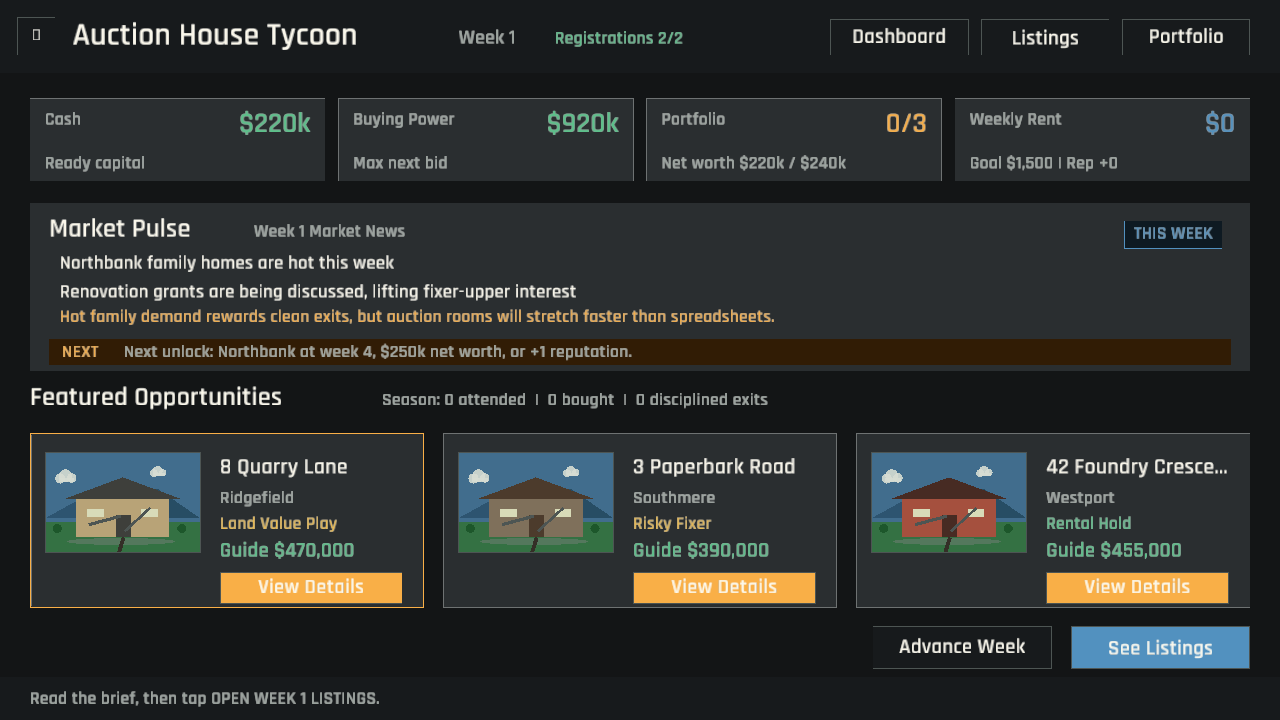
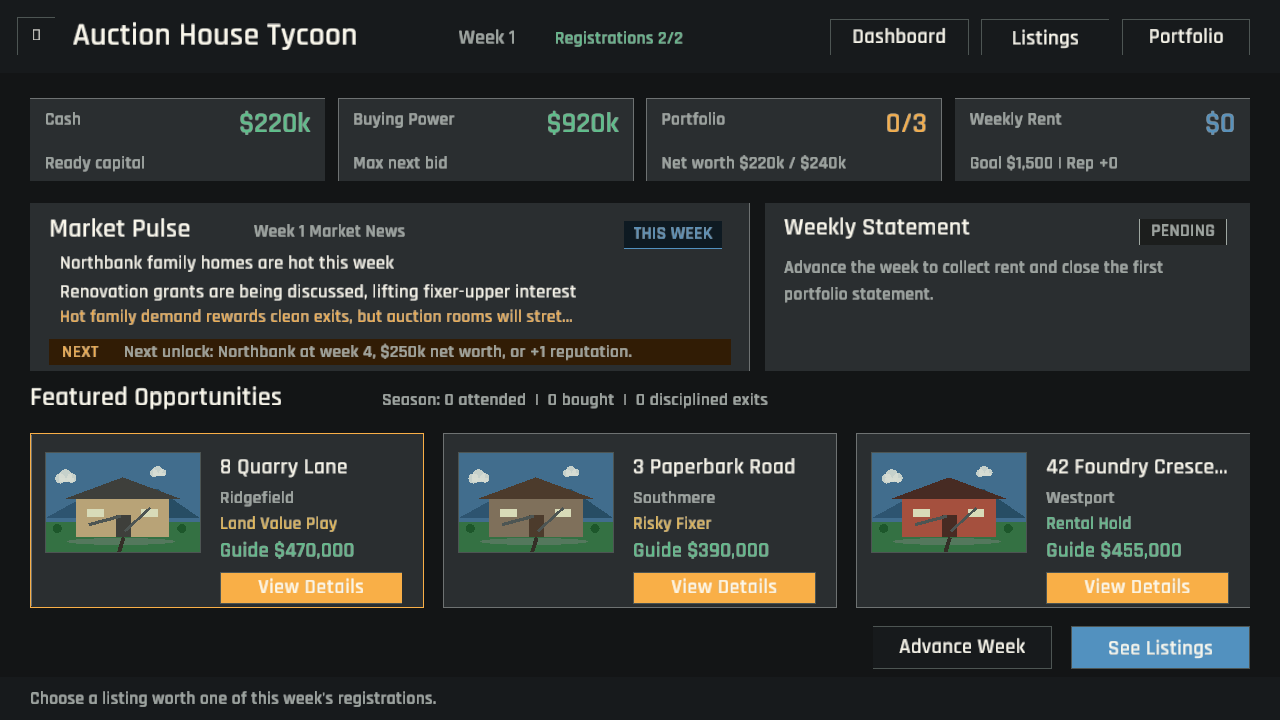
Every Friday closes the books before Saturday raises a paddle (weekly statement)
Weekly cash movement previously disappeared into a long status sentence. The dashboard now keeps a save-compatible statement that separates rent, management, loan interest, property costs, net movement, and any debt-funded shortfall beside the market pulse. Dense screens prewarm the shared Rajdhani glyph atlas at the UI's real sizes, preventing late atlas growth from corrupting earlier text batches.

Changed region(s): [[0.4375, 0.275, 0.9688, 0.5194], [0.0312, 0.9472, 0.3438, 0.9778]]

diff --git a/src/screens/dashboard.rs b/src/screens/dashboard.rs
@@ -22,7 +22,14 @@ impl App {
         }
 
         self.draw_dashboard_stats(margin, top, width, current_net_worth);
-        self.draw_market_pulse(margin, top + 98.0, width, current_net_worth);
+        let pulse_gap = 14.0;
+        let pulse_width = width * 0.59;
+        self.draw_market_pulse(margin, top + 98.0, pulse_width, current_net_worth);
+        self.draw_weekly_statement(
+            margin + pulse_width + pulse_gap,
+            top + 98.0,
+            width - pulse_width - pulse_gap,
+        );
 
         label(
             "Featured Opportunities",
@@ -282,13 +289,80 @@ impl App {
             Color::new(ACCENT.r * 0.20, ACCENT.g * 0.16, ACCENT.b * 0.08, 1.0),
         );
         label("NEXT", unlock.x + 12.0, unlock.y + 17.0, 14, ACCENT);
-        label(
+        label_fit(
             next_unlock_note(self.week, net_worth_value, self.player.reputation),
             unlock.x + 70.0,
             unlock.y + 17.0,
+            unlock.w - 82.0,
             14,
             TEXT_DIM,
         );
+    }
+
+    fn draw_weekly_statement(&self, x: f32, y: f32, width: f32) {
+        let rect = Rect::new(x, y, width, 158.0);
+        soft_panel(rect);
+        label(
+            "Weekly Statement",
+            rect.x + 18.0,
+            rect.y + 30.0,
+            23,
+            TEXT_BRIGHT,
+        );
+        let Some(pressure) = &self.last_weekly_pressure else {
+            draw_badge(
+                "PENDING",
+                Rect::new(rect.x + rect.w - 104.0, rect.y + 15.0, 82.0, 25.0),
+                TEXT_DIM,
+            );
+            draw_wrapped_text(
+                "Advance the week to collect rent and close the first portfolio statement.",
+                rect.x + 18.0,
+                rect.y + 66.0,
+                rect.w - 36.0,
+                17,
+                TEXT_DIM,
+            );
+            return;
+        };
+
+        let net = pressure.rental_income - pressure.total;
+        draw_badge(
+            if net >= 0 { "CASHFLOW +" } else { "CASHFLOW -" },
+            Rect::new(rect.x + rect.w - 122.0, rect.y + 15.0, 100.0, 25.0),
+            if net >= 0 { POSITIVE } else { WARNING },
+        );
+        let rows = [
+            ("Rent collected", pressure.rental_income),
+            ("Management", -pressure.rental_operating_cost),
+            ("Loan interest", -pressure.debt_interest),
+            ("Property costs", -pressure.holding_cost),
+            ("Net movement", net),
+        ];
+        for (index, (title, amount)) in rows.iter().enumerate() {
+            let row_y = rect.y + 56.0 + index as f32 * 20.0;
+            label(title, rect.x + 18.0, row_y, 14, TEXT_DIM);
+            label(
+                &signed_money(*amount),
+                rect.x + rect.w - 112.0,
+                row_y,
+                14,
+                if *amount >= 0 { POSITIVE } else { WARNING },
+            );
+        }
+        if pressure.shortfall_added_to_debt > 0 {
+            label_fit(
+                &format!(
+                    "Shortfall {} added to debt",
+                    format_money(pressure.shortfall_added_to_debt)
+                ),
+                rect.x + 18.0,
+                rect.y + rect.h - 8.0,
+                rect.w - 36.0,
+                13,
+                NEGATIVE,
+            );
+        }
     }
 }
 

diff --git a/src/app.rs b/src/app.rs
@@ -6,7 +6,7 @@ use crate::model::{
 use crate::screens::Screen;
 use crate::sim::auction_sim::{create_auction, update_auction};
 use crate::sim::campaign::{
-    apply_weekly_pressure, campaign_status, next_unlock_note, suburb_is_unlocked,
+    apply_weekly_pressure, campaign_status, next_unlock_note, suburb_is_unlocked, WeeklyPressure,
 };
 use crate::sim::finance::finance_snapshot;
 use crate::sim::maintenance::trigger_due_maintenance;
@@ -55,6 +55,7 @@ pub struct App {
     pub(crate) current_auction: Option<crate::model::Auction>,
     pub(crate) purchase_debrief: Option<PurchaseDebrief>,
     pub(crate) sale_result: Option<SaleResult>,
+    pub(crate) last_weekly_pressure: Option<WeeklyPressure>,
     pub(crate) research_reports: HashMap<PropertyId, ResearchReport>,
     pub(crate) selected_contractor: ContractorTier,
     pub(crate) selected_marketing_plan: MarketingPlan,
@@ -86,6 +87,7 @@ impl App {
             current_auction: None,
             purchase_debrief: None,
             sale_result: None,
+            last_weekly_pressure: None,
             research_reports: HashMap::new(),
             selected_contractor: ContractorTier::Reliable,
             selected_marketing_plan: MarketingPlan::Standard,
@@ -248,6 +250,7 @@ impl App {
         self.current_auction = None;
         self.purchase_debrief = None;
         self.sale_result = None;
+        self.last_weekly_pressure = None;
         self.research_reports.clear();
         self.selected_contractor = ContractorTier::Reliable;
         self.selected_marketing_plan = MarketingPlan::Standard;
@@ -580,6 +583,7 @@ impl App {
 
         let market = self.market().clone();
         let pressure = apply_weekly_pressure(&mut self.player, &market);
+        self.last_weekly_pressure = Some(pressure.clone());
         let completed_jobs = progress_player_renovations(&mut self.player);
         let maintenance_notices = trigger_due_maintenance(&mut self.player);
         self.week += 1;

diff --git a/src/save.rs b/src/save.rs
@@ -4,6 +4,7 @@ use crate::model::{
     WEEKLY_AUCTION_REGISTRATIONS,
 };
 use crate::screens::Screen;
+use crate::sim::campaign::WeeklyPressure;
 use crate::sim::sale_sim::{MarketingPlan, SaleResult};
 use macroquad::prelude::set_fullscreen;
 use macroquad_toolkit::persistence::{load_from_slot, save_to_slot};
@@ -22,6 +23,8 @@ struct SaveGameState {
     current_auction: Option<Auction>,
     purchase_debrief: Option<PurchaseDebrief>,
     sale_result: Option<SaleResult>,
+    #[serde(default)]
+    last_weekly_pressure: Option<WeeklyPressure>,
     research_reports: HashMap<PropertyId, ResearchReport>,
     selected_contractor: ContractorTier,
     #[serde(default)]
@@ -50,6 +53,7 @@ impl SaveGameState {
             current_auction: app.current_auction.clone(),
             purchase_debrief: app.purchase_debrief.clone(),
             sale_result: app.sale_result.clone(),
+            last_weekly_pressure: app.last_weekly_pressure.clone(),
             research_reports: app.research_reports.clone(),
             selected_contractor: app.selected_contractor,
             selected_marketing_plan: app.selected_marketing_plan,
@@ -101,6 +105,7 @@ impl App {
         self.current_auction = save.current_auction;
         self.purchase_debrief = save.purchase_debrief;
         self.sale_result = save.sale_result;
+        self.last_weekly_pressure = save.last_weekly_pressure;
         self.research_reports = save.research_reports;
         self.selected_contractor = save.selected_contractor;
         self.selected_marketing_plan = save.selected_marketing_plan;

diff --git a/src/app/capture.rs b/src/app/capture.rs
@@ -14,6 +14,12 @@ impl App {
     pub fn begin_capture_scene(&mut self, scene: &str) {
         match scene {
             "briefing" => self.start_new_game(),
+            "dashboard" => {
+                self.start_new_game();
+                self.screen = Screen::Dashboard;
+                self.status =
+                    "Choose a listing worth one of this week's registrations.".to_string();
+            }
             "listings" => {
                 self.start_new_game();
                 self.screen = Screen::PropertyList;
@@ -85,6 +91,14 @@ impl App {
                 self.status =
                     "Compare the selected home's cashflow, debt, condition, and next move."
                         .to_string();
+            }
+            "dashboard_weekly" => {
+                self.start_new_game();
+                self.seed_portfolio_capture();
+                self.screen = Screen::Dashboard;
+                self.advance_week();
+                self.screen = Screen::Dashboard;
+                self.status = "Week closed. Compare rent against every portfolio cost.".to_string();
             }
             "portfolio_maintenance" => {
                 self.start_new_game();

diff --git a/src/main.rs b/src/main.rs
@@ -34,7 +34,11 @@ fn window_conf() -> Conf {
 
 #[macroquad::main(window_conf)]
 async fn main() {
-    macroquad_toolkit::ui::ensure_default_ui_font().expect("toolkit UI font should load");
+    macroquad_toolkit::ui::prewarm_default_ui_font(&[
+        12, 13, 14, 15, 16, 17, 18, 19, 20, 21, 22, 23, 24, 25, 26, 27, 28, 30, 31, 32, 34, 35, 38,
+        42, 44, 74,
+    ])
+    .expect("toolkit UI font should prewarm");
     let title_background =
         Texture2D::from_file_with_format(include_bytes!("../auction_house_title.png"), None);
     let mut app = App::new(title_background);

diff --git a/src/sim/campaign.rs b/src/sim/campaign.rs
@@ -4,10 +4,11 @@ use crate::model::{
 };
 use crate::sim::rental::{apply_rental_income, portfolio_rental_snapshot};
 use crate::sim::valuation::net_worth;
+use serde::{Deserialize, Serialize};
 
 const WEEKLY_DEBT_INTEREST_RATE: f32 = 0.00095;
 
-#[derive(Clone, Debug)]
+#[derive(Clone, Debug, Default, Deserialize, Serialize)]
 pub struct WeeklyPressure {
     pub rental_income: i64,
     pub rental_operating_cost: i64,

diff --git a/GAME_DESIGN.md b/GAME_DESIGN.md
@@ -40,6 +40,7 @@ The three requirements prevent a single degenerate strategy. Cheap but poor asse
 - Rent supports cashflow and borrowing capacity, but debt, ownership costs, and scheduled maintenance remain visible.
 - Spare cash can reduce a selected property's principal, trading liquidity for lower debt and more bank headroom.
 - A sale outcome separates the hammer price from fees, loan repayment, settlement cash released, and true deal profit.
+- Every advanced week closes a visible statement for rent, management, interest, property costs, net cashflow, and debt-funded shortfall.
 - Maintenance checks occur on a disclosed schedule, reduce collected rent until repaired, and never arrive as uncontrolled random punishment.
 - Walking away preserves capital and can build discipline reputation when a rival overheats.
 - The season ledger values attendance, settled purchases, disciplined exits, post-auction buys, completed sales, and realized profit.

diff --git a/README.md b/README.md
@@ -17,6 +17,7 @@ Winning an auction is not automatically good. The real challenge is knowing what
 - Build a season record that credits disciplined exits alongside purchases and profitable sales.
 - Pay down individual property loans when freeing bank headroom matters more than keeping cash liquid.
 - Read the seller-side auction ledger: reserve, bidder depth, debt cleared, settlement release, and true profit.
+- Read a weekly portfolio statement instead of guessing where rent and cash went.
 - Renovate, place or end tenancies, collect rent, handle scheduled maintenance, hold, or sell purchased properties.
 - Track every property, cash, debt, rent, weekly cashflow, fees, repairs, and net worth.
 
